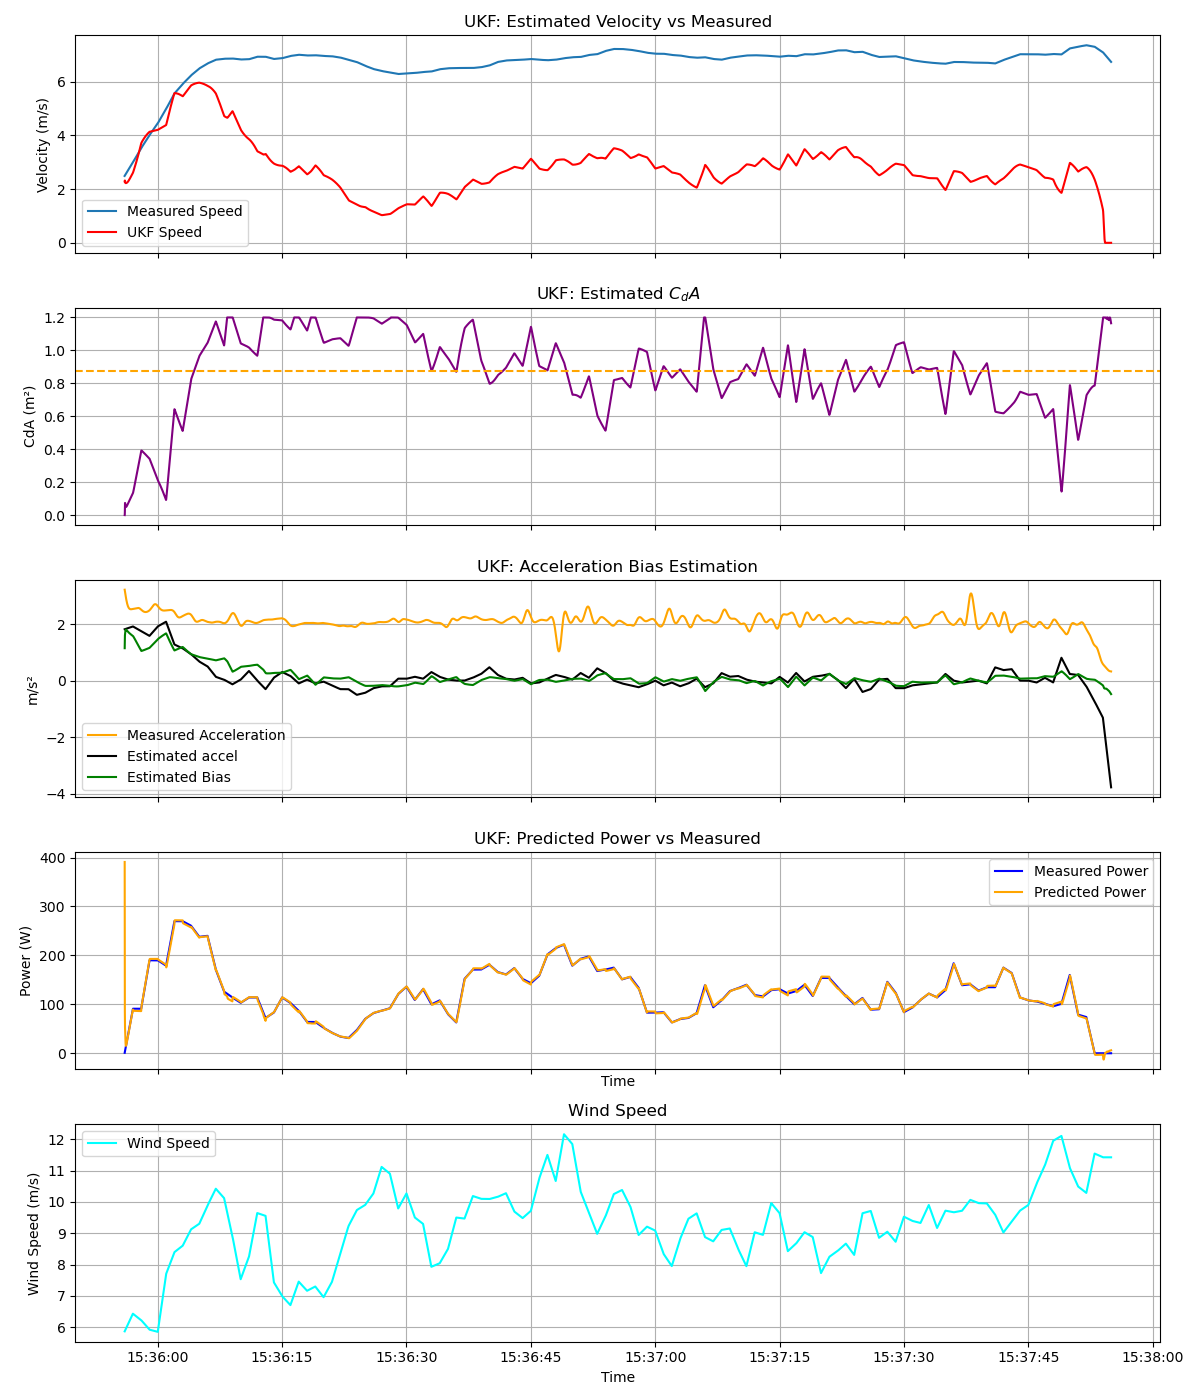
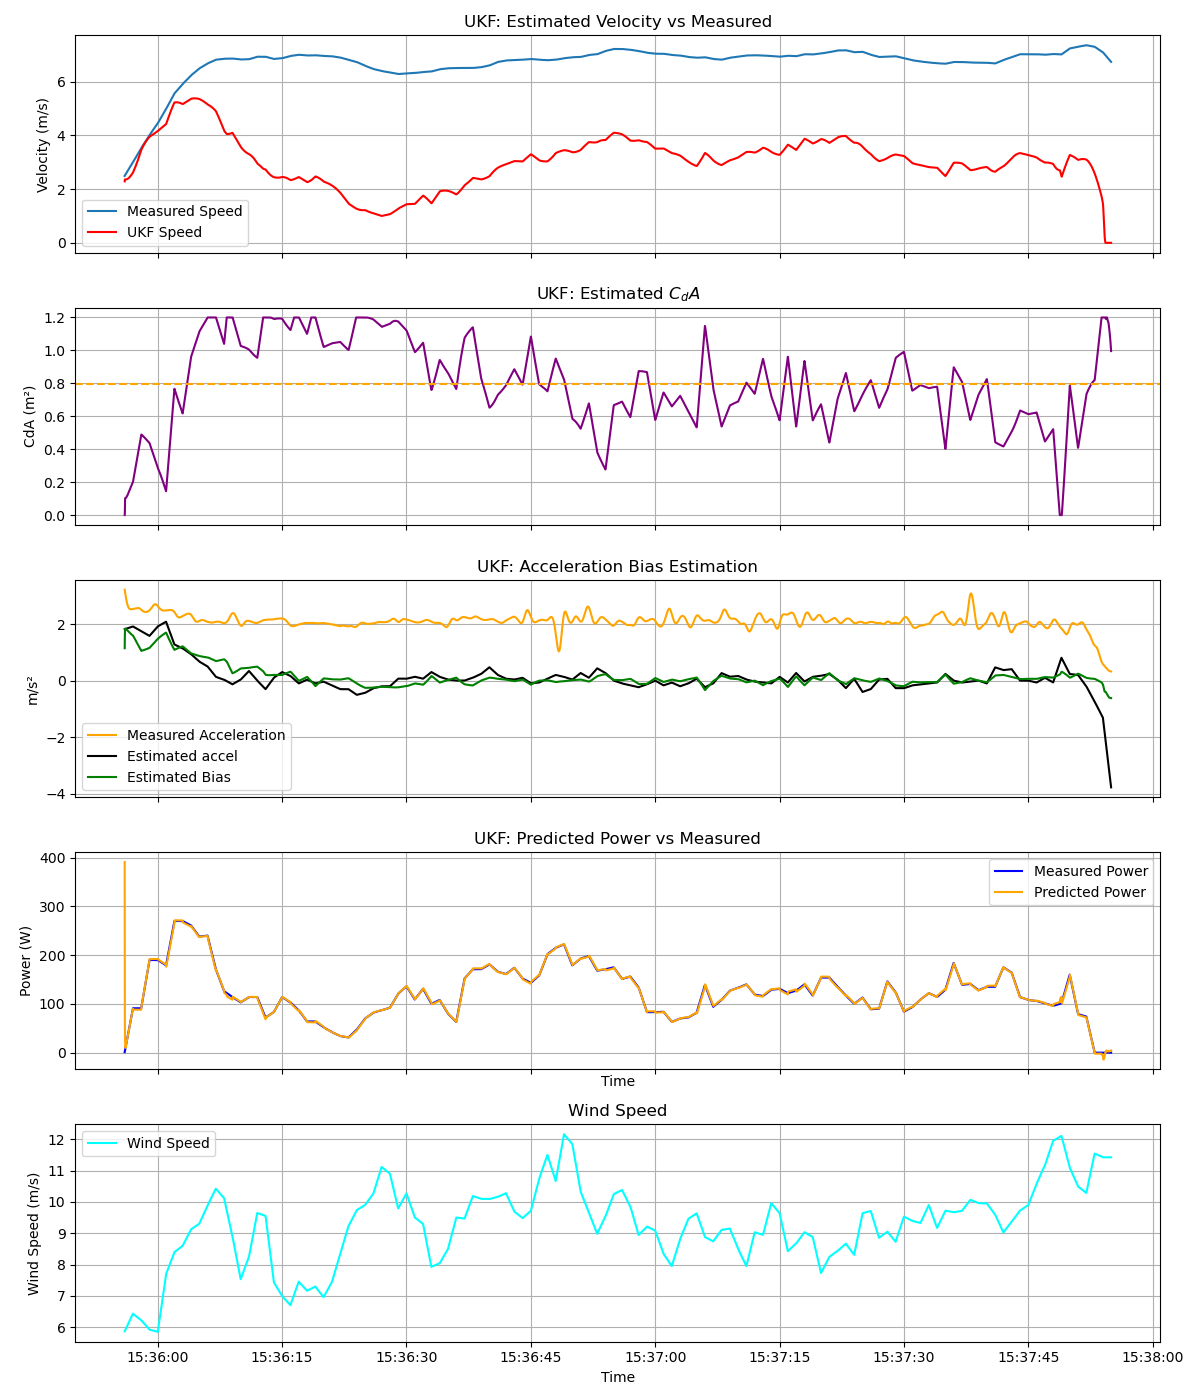
Testing SSH

diff --git a/UKF_state_Velocity_Cda_Bias.py b/UKF_state_Velocity_Cda_Bias.py
@@ -175,7 +175,7 @@ if __name__ == "__main__":
     Q = np.diag([
         0.5**2,           # v 
         0.001**2,           # CdA
-        0.5**2            # bias
+        1**2            # bias
     ])
 
     R_crank = 900 
